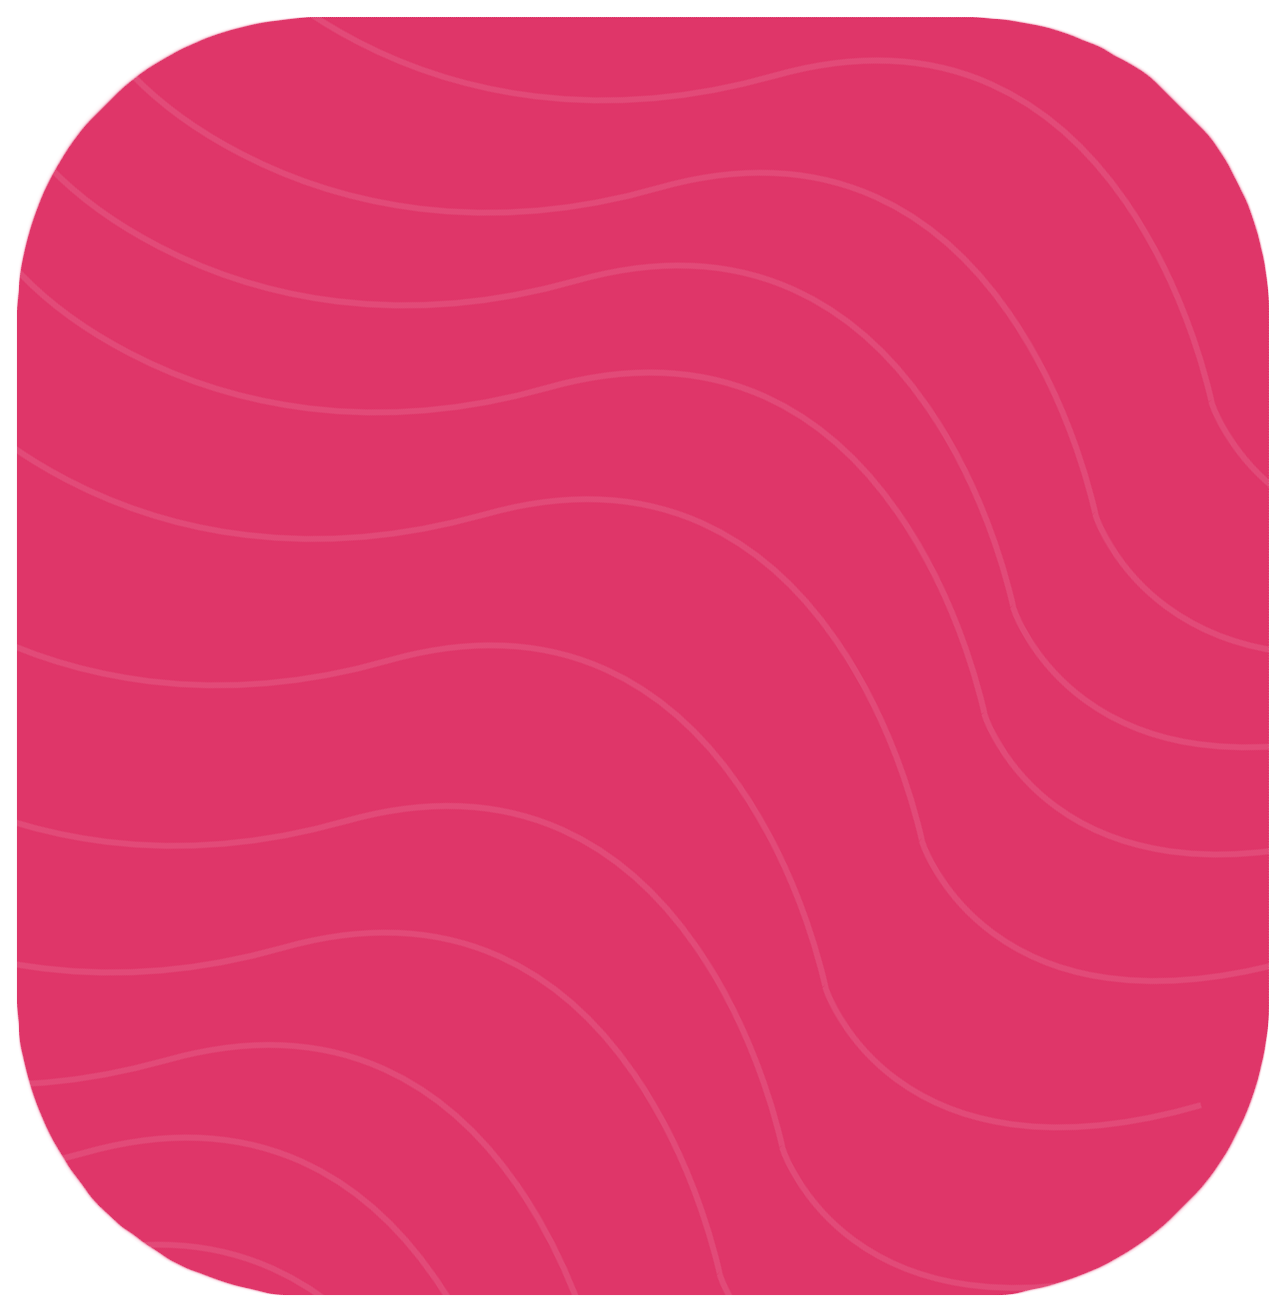
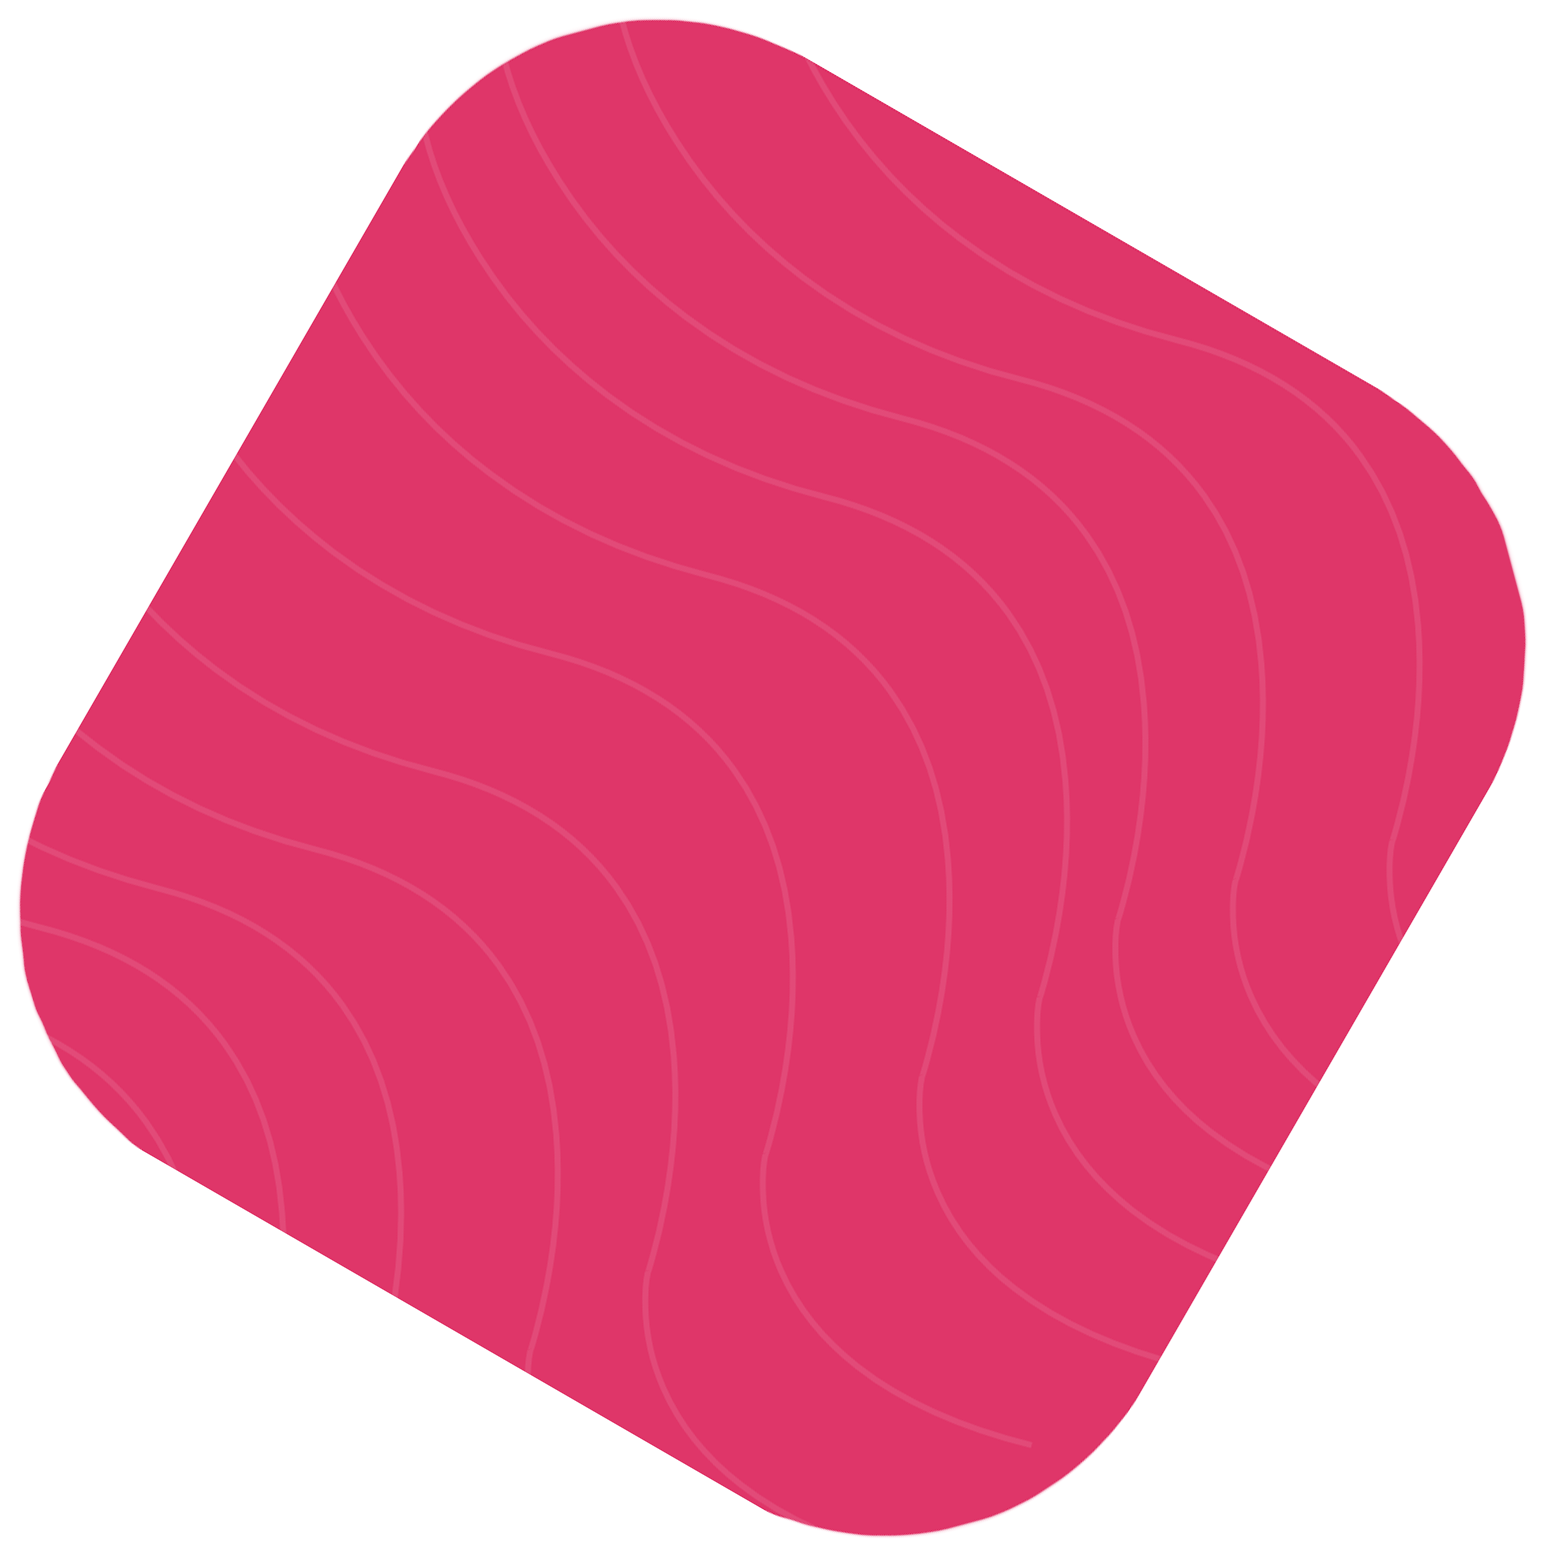
about us component

diff --git a/src/components/Home/Intro/Intro.scss b/src/components/Home/Intro/Intro.scss
@@ -3,6 +3,35 @@
     width: 100%;
     background-size: cover;
 
+    .intro-header {
+        min-height: 89px;
+        max-width: 530px;
+        width: 100%;
+        font-family: 'Poppins', sans-serif;
+        font-size: 64px;
+        color: rgba(255, 255, 255, 1);
+    }
+
+
+    .white-line {
+        height: 3px;
+        max-width: 100px;
+        width: 100%;
+        background-color: rgba(255, 255, 255, 1);
+        border-radius: 2px;
+        opacity: 100%;
+    }
+
+    .intro-paragraph {
+        height: 131px;
+        max-width: 372px;
+        width: 100%;
+        font-family: 'Roboto', sans-serif;
+        font-size: 16px;
+        color: rgba(255, 255, 255, 1);
+        line-height: 30px;
+    }
+
     .intro-container {
         margin-top: 122px;
     }
@@ -32,6 +61,7 @@
                 background-color: rgba(223, 54, 105, 1);
                 border-radius: 5px;
                 padding: 0.9rem 2vw;
+                transition: 0.5s;
 
                 &:hover {
                     background: rgba(223, 54, 105, 0);
@@ -50,16 +80,20 @@
         width: 100%;
         height: 100%;
 
+        .pink-square-container {
+            max-height: 100%;
+            max-width: 100%;
+            height: 100%;
+            width: 100%;
+            border-radius: 103px;
+            position: absolute;
+            overflow: hidden;
+        }
         .pink-square {
             max-height: 574px;
             max-width: 574px;
             height: 100%;
             width: 100%;
-            //border-radius: 103px;
-            -webkit-transform:  rotate(30deg);
-            -ms-transform:  rotate(30deg);
-            transform:  rotate(30deg);
-            position: absolute;
         }
 
 

diff --git a/src/components/Home/Home.scss b/src/components/Home/Home.scss
@@ -1,30 +1,44 @@
 #home {
-    .home-header {
-        min-height: 89px;
-        max-width: 530px;
-        width: 100%;
-        font-family: 'Poppins', sans-serif;
-        font-size: 64px;
-        color: rgba(255, 255, 255, 1);
+
+    .home-paragraph {
+        font-family: 'Roboto', sans-serif;
+        font-size: 16px;
+        color: rgba(151, 159, 197, 1);
+        line-height: 30px;
+        margin-top: 2rem;
     }
 
-    .white-line {
-        height: 3px;
-        max-width: 100px;
+    .home-header {
+        font-family: 'Poppins', sans-serif;
+        font-size: 36px;
+        color: rgba(5, 59, 108, 1);
+        font-weight: bold;
+    }
+
+    .blue-line {
+        height: 2px;
+        max-width: 80px;
         width: 100%;
-        background-color: rgba(255, 255, 255, 1);
-        border-radius: 2px;
+        background-color: rgba(5, 59, 108, 1);
+        border-radius: 1px;
         opacity: 100%;
     }
 
-    .home-paragraph {
-        height: 131px;
-        max-width: 372px;
-        width: 100%;
-        font-family: 'Roboto', sans-serif;
-        font-size: 16px;
-        color: rgba(255, 255, 255, 1);
-        line-height: 30px;
-    }
+    .home-blue-button {
+        background-color: rgba(5, 59, 108, 1);
+        border-radius: 5px;
+        text-decoration: none;
+        color: white;
+        padding: 13px 44px;
+        transition: 1s;
+        margin-top: 24px;
 
+
+        &:hover {
+            background: rgba(0, 0, 0, 0);
+            color: rgba(5, 59, 108, 1);
+            padding: 11px 42px;
+            border: 1px solid rgba(5, 59, 108, 1);;
+        }
+    }
 }

diff --git a/src/components/Home/Intro/Intro.js b/src/components/Home/Intro/Intro.js
@@ -12,9 +12,9 @@ export default function Intro() {
             <Nav />
             <div className={'container intro-container d-flex flex-wrap justify-content-around'}>
                 <div className={'left-container'}>
-                    <h1 className={'home-header'}>Golf Car & Utility</h1>
+                    <h1 className={'intro-header'}>Golf Car & Utility</h1>
                     <hr className={'white-line'}/>
-                    <p className={'home-paragraph'}>
+                    <p className={'intro-paragraph'}>
                         Lorem ipsum dolor sit amet, consetetur sadipscing elitr, sed diam nonumy eirmod tempor invidunt ut labore et dolore magna aliquyam erat, sed diam voluptua. At vero eos et accusam et justo duo
                     </p>
                     <div className={'buttons-container d-flex justify-content-between'}>
@@ -23,7 +23,9 @@ export default function Intro() {
                     </div>
                 </div>
                 <div className={'right-container'}>
-                    <img src={PinkSquare}  alt={''} className={'pink-square'}/>
+                    <div className={'pink-square-container'}>
+                        <img src={PinkSquare}  alt={''} className={'pink-square'}/>
+                    </div>
                     <div id="carouselExampleFade" className="carousel slide carousel-fade" data-bs-ride="carousel">
                         <div className="carousel-inner">
                             <div className="carousel-item active">

diff --git a/src/components/Home/AboutUs/AboutUs.js b/src/components/Home/AboutUs/AboutUs.js
@@ -7,13 +7,22 @@ import AboutUs3 from '../Assets/about-us-3.jpg'
 export default function AboutUs() {
 
     return(
-        <div id={'about-us'} className={'container d-flex flex-wrap-reverse'}>
+        <div id={'about-us'} className={'container d-flex flex-wrap-reverse justify-content-around'}>
             <div className={'left-container'}>
-                <img src={AboutUs1}  alt={''}/>
+                <img src={AboutUs1}  alt={''} className={'image-container image-1'}/>
+                <img src={AboutUs2}  alt={''} className={'image-container image-2'}/>
+                <img src={AboutUs3}  alt={''} className={'image-container image-3'}/>
 
             </div>
             <div className={'right-container'}>
-
+                <h1 className={'home-header'}>About Us</h1>
+                <hr className={'blue-line'} />
+                <p className={'home-paragraph'}>
+                    Lorem ipsum dolor sit amet, consetetur sadipscing elitr, sed diam nonumy eirmod tempor invidunt ut labore et dolore magna aliquyam erat, sed diam voluptua. At vero eos et accusam et justo duo dolores et ea rebum. Stet clita kasd gubergren, no sea takimata sanctus est Lorem ipsum dolor
+                </p>
+                <a className={'home-blue-button'} href={'#'}>
+                    Show More
+                </a>
             </div>
         </div>
     )

diff --git a/src/components/Home/AboutUs/AboutUs.scss b/src/components/Home/AboutUs/AboutUs.scss
@@ -1,9 +1,50 @@
 #about-us {
-    position: relative;
+    //position: relative;
+    height: 394px;
+    margin-top: 154px;
 
     .left-container{
         position: relative;
         max-width: 530px;
+        width: 100%;
+        max-height: 395px;
+        height: 100%;
+
+        .image-container {
+            position: absolute;
+            border: 7px white solid;
+            border-radius: 50px;
+            box-shadow: 0 5px 1rem -5px rgba(0, 0, 0, 0.5);
+        }
+
+        .image-1 {
+            height: 191px;
+            width: 236px;
+            bottom: 0;
+            left: 73px;
+            z-index: 2;
+        }
+
+        .image-2 {
+            height: 253px;
+            width: 313px;
+            top: 0;
+            left:0;
+            z-index: 0;
+        }
+
+        .image-3 {
+            height: 253px;
+            width: 313px;
+            right: 0;
+            top: 60px;
+            z-index: 1;
+
+        }
+    }
+
+    .right-container {
+        max-width: 432px;
         width: 100%;
     }
 }

diff --git a/src/components/Home/Home.js b/src/components/Home/Home.js
@@ -8,7 +8,7 @@ export default function Home() {
     return(
         <div id={'home'} >
             <Intro />
-            {/*<AboutUs />*/}
+            <AboutUs />
         </div>
     )
 }
